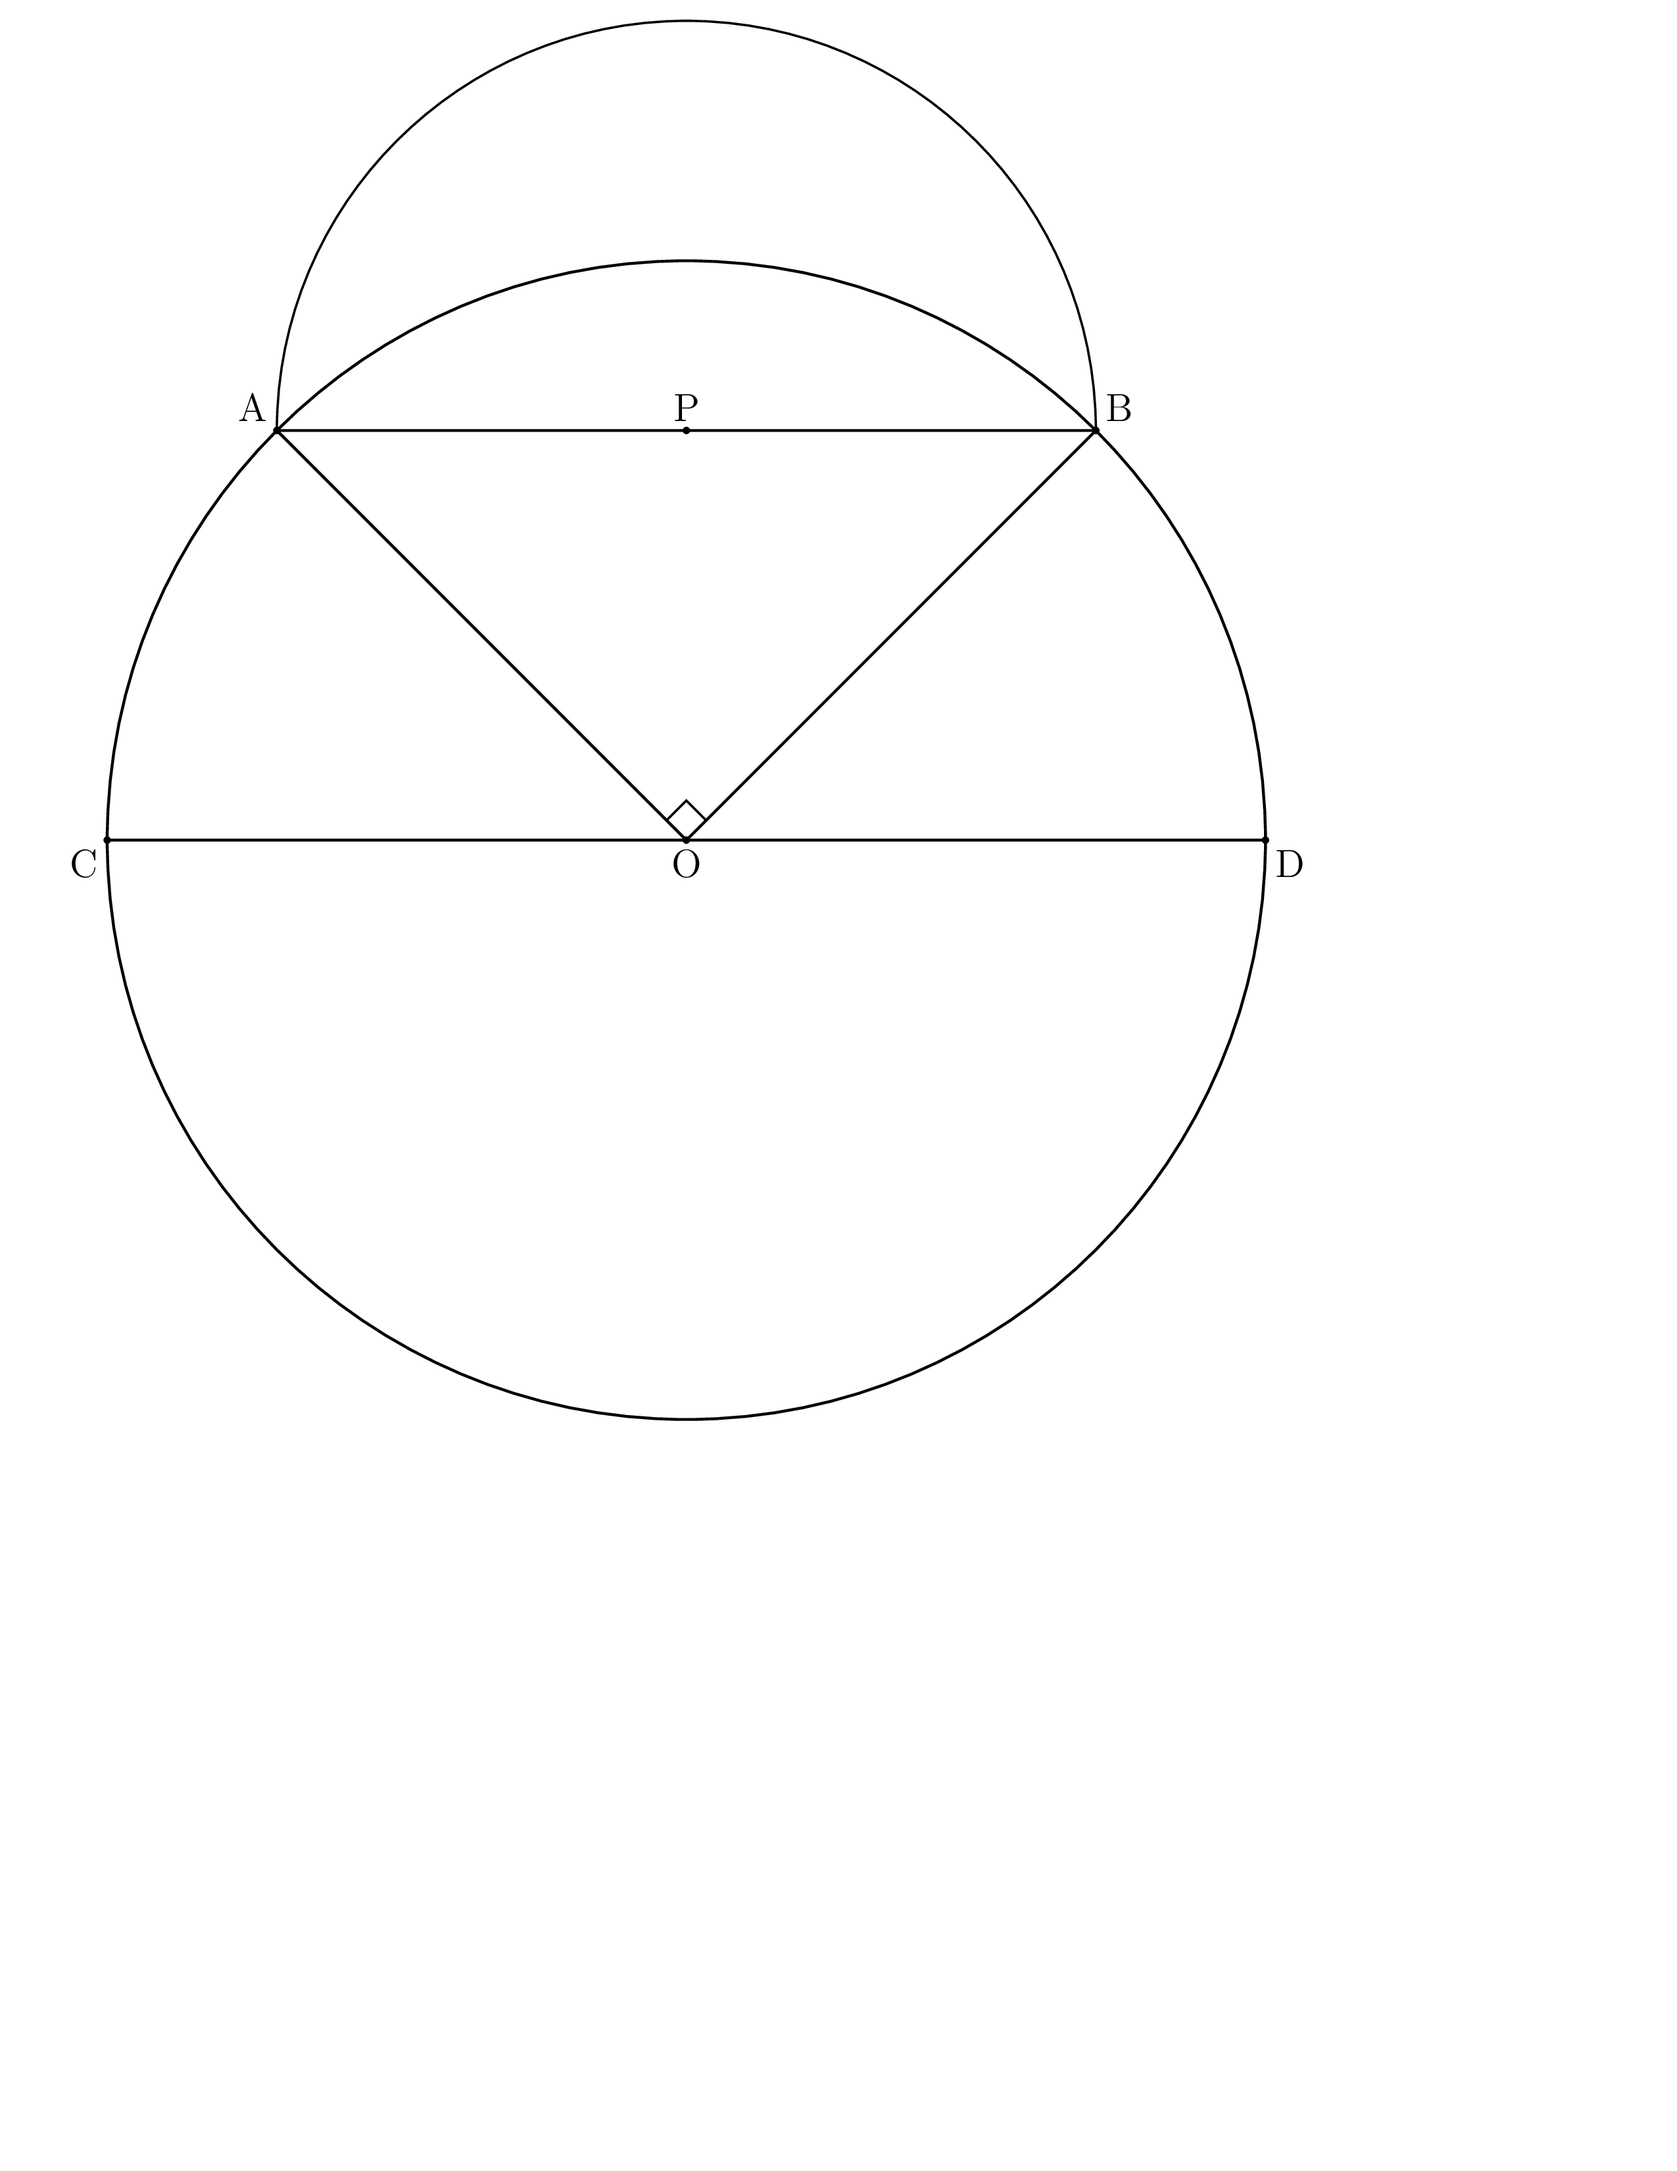
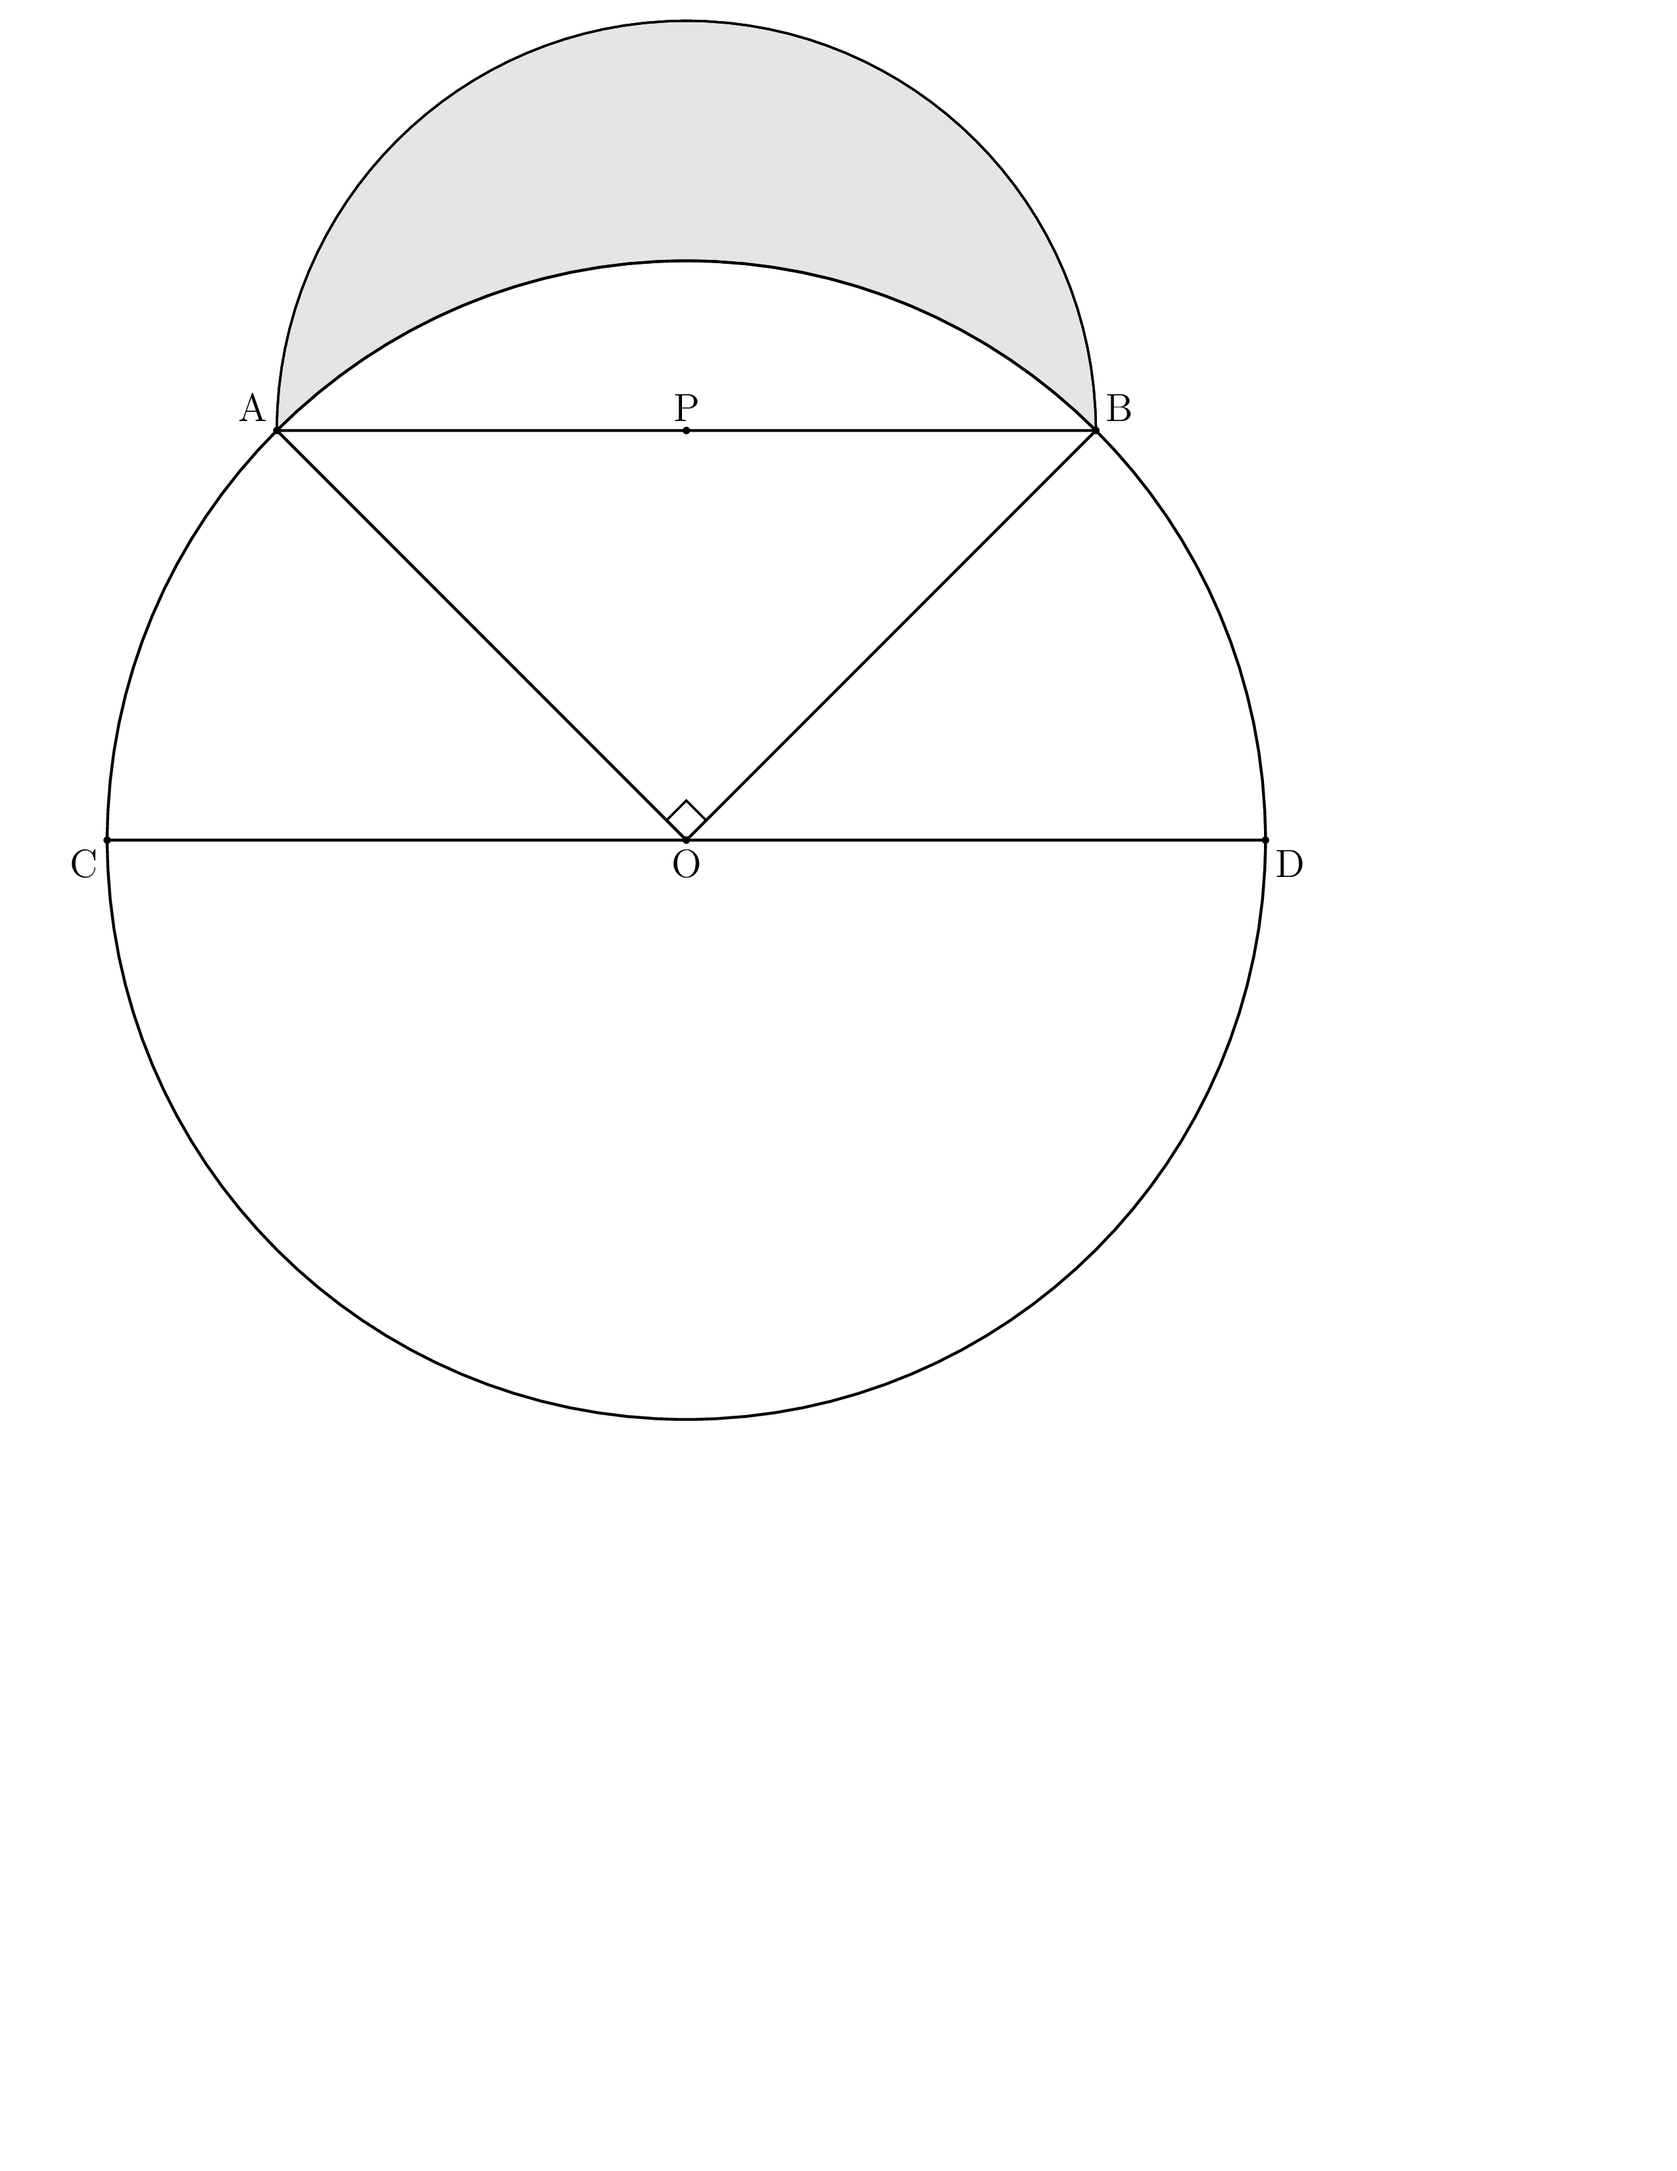
added shading to prompting and more testing ~214 lines

Changed region(s): [[0.1549, 0.0, 0.6506, 0.1873]]

diff --git a/AI-Ed-clean/Circuit-Sketchpad/interactive_sketchpad/tikzdraw.tex b/AI-Ed-clean/Circuit-Sketchpad/interactive_sketchpad/tikzdraw.tex
@@ -13,31 +13,25 @@
 \begin{document}%
 \normalsize%
 \begin{tikzpicture}%
-<<<<<<< Updated upstream
-\node[above,font=\Large] (A) at (0.0,5.196152422706632) {A};%
-\path[draw,fill=black,radius=0.04] (0.0,5.196152422706632) circle;%
-\node[left,font=\Large] (B) at (-3.0,0.0) {B};%
-\path[draw,fill=black,radius=0.04] (-3.0,0.0) circle;%
-\node[right,font=\Large] (C) at (3.0,0.0) {C};%
-\path[draw,fill=black,radius=0.04] (3.0,0.0) circle;%
-\path[line width = 1pt,draw,radius=6.0] (0.0,5.196152422706632) circle;%
-\path[line width = 1pt,draw,radius=6.0] (-3.0,0.0) circle;%
-\path[line width = 1pt,draw,radius=6.0] (3.0,0.0) circle;%
-=======
-\node[left,font=\Large] (A) at (-8.499180959106988,0.0) {A};%
-\path[draw,fill=black,radius=0.04] (-8.499180959106988,0.0) circle;%
-\node[above,font=\Large] (B) at (0.0,8.499180959106988) {B};%
-\path[draw,fill=black,radius=0.04] (0.0,8.499180959106988) circle;%
-\node[right,font=\Large] (C) at (8.499180959106988,0.0) {C};%
-\path[draw,fill=black,radius=0.04] (8.499180959106988,0.0) circle;%
-\node[below right,font=\Large] (D) at (4.249590479553494,-7.360506621947641) {D};%
-\path[draw,fill=black,radius=0.04] (4.249590479553494,-7.360506621947641) circle;%
-\path[line width = 1pt,draw] (-8.499180959106988,0.0) -- (0.0,8.499180959106988);%
-\path[line width = 1pt,draw] (0.0,8.499180959106988) -- (8.499180959106988,0.0);%
-\path[line width = 1pt,draw] (8.499180959106988,0.0) -- (4.249590479553494,-7.360506621947641);%
-\path[line width = 1pt,draw] (4.249590479553494,-7.360506621947641) -- (-8.499180959106988,0.0);%
-\path[line width = 1pt,draw,radius=8.499180959106988] (0.0,0.0) circle;%
-\path[line width = 0.8pt,draw] (-0.2545584412271571,8.244622517879831) -- (0.0,7.990064076652674) -- (0.2545584412271571,8.244622517879831);%
->>>>>>> Stashed changes
+\node[below left,font=\Large] (A) at (0.0,0.0) {A};%
+\path[draw,fill=black,radius=0.04] (0.0,0.0) circle;%
+\node[below right,font=\Large] (B) at (6.0,0.0) {B};%
+\path[draw,fill=black,radius=0.04] (6.0,0.0) circle;%
+\node[above right,font=\Large] (C) at (6.0,6.0) {C};%
+\path[draw,fill=black,radius=0.04] (6.0,6.0) circle;%
+\node[above left,font=\Large] (D) at (0.0,6.0) {D};%
+\path[draw,fill=black,radius=0.04] (0.0,6.0) circle;%
+\node[left,font=\Large] (P) at (0.8038475772933684,3.0) {P};%
+\path[draw,fill=black,radius=0.04] (0.8038475772933684,3.0) circle;%
+\node[below right,font=\Large] (Q) at (1.7573593128807146,1.7573593128807146) {Q};%
+\path[draw,fill=black,radius=0.04] (1.7573593128807146,1.7573593128807146) circle;%
+\path[line width = 1pt,draw] (0.0,0.0) -- (6.0,0.0);%
+\path[line width = 1pt,draw] (6.0,0.0) -- (6.0,6.0);%
+\path[line width = 1pt,draw] (6.0,6.0) -- (0.0,6.0);%
+\path[line width = 1pt,draw] (0.0,6.0) -- (0.0,0.0);%
+\path[line width = 1pt,draw] (0.0,0.0) -- (6.0,6.0);%
+\path[start angle  = 180.0,end angle = 150.0,thick,draw,radius=6.0] (0.0,0.0) arc;%
+\path[start angle  = 210.0,end angle = -135.0,thick,draw,radius=6.0] (0.8038475772933684,3.0) arc;%
+\path[start angle  = -90.0,end angle = -180.0,thick,draw,radius=6.0] (6.0,0.0) arc;%
 \end{tikzpicture}%
 \end{document}

diff --git a/AI-Ed-clean/Circuit-Sketchpad/interactive_sketchpad/prompt_geometry.py b/AI-Ed-clean/Circuit-Sketchpad/interactive_sketchpad/prompt_geometry.py
@@ -183,13 +183,16 @@ Shade APB BOA
 - Do not invent unknown or final-answer angle measures.
 - Use full `Circle ...` only for complete visible circles.
 - Prefer naming a circle after its center: `Circle O center O radius 1`.
-- Use `Arc ABC` for a clockwise arc from A to C centered at B. 
-- Use no spaces or dashes in arc formatting: Do NOT use `Arc A-B-C` or `Arc A B C`.
+- Use `Arc AOB` for a clockwise arc from A to B centered at O. 
+- NEVER use spaces or dashes in arc formatting: Do NOT use `Arc A-B-C`, `Arc A B C`, or `Arc AB C`.
 - *IMPORTANT*: Clockwise direction matters for angles and arcs. If the drawn angle or arc would go the wrong way, reverse the endpoint order: 
   For example, `Angle CBA=60` instead of `Angle ABC=60`, or `Arc BOA` instead of `Arc AOB`.
-- In `Shade`, two-letter tokens like `AB` are segments and three-letter tokens like `ABC` are arcs.
-- Shade paths must be connected and closed.
-- Tokens used in shade paths must be defined ahead of time
+- In `Shade`, two-letter tokens like `AB` denote line segments and three-letter tokens like `AOB` denote arcs.
+- Write `Shade` tokens in boundary traversal order. Each token must start where the previous token ends.
+- `Shade` paths must be connected, closed, and use only previously defined tokens.
+- Define every arc referenced in `Shade` before the `Shade` line, using the direction that continues the boundary traversal:
+  For example, define `Arc AOB` if `AOB` appears in the `Shade` path; use the reverse arc if required by the renderer.
+- Define only segments and arcs that are visible or required as boundaries of the shaded region.
 - Include only visible or pedagogically necessary objects.
 
 Before calling `generate_geometry`, check:
@@ -201,6 +204,11 @@ Before calling `generate_geometry`, check:
 - For later diagrams, unchanged topology stays unchanged.
 - For every angle, confirm the clockwise direction matches the marked angle in the original diagram.
 - For every arc, confirm the clockwise endpoint order matches the visible arc, not the opposite/reflex arc.
+- For every three-letter arc token used in `Shade`, confirm that there is a corresponding `Arc ...` line defined earlier, 
+  or a deliberately defined reverse arc that renders the correct boundary.
+- The shaded path is closed and connected in order: each token starts where the previous token ends, 
+  and the final token ends where the first token starts.
+- Shading uses only boundary objects of the target shaded region, not extra arcs or segments.
 - For redraws or corrections, compare the new topology against the previous correct topology.
 - Corrections change only the requested elements (e.g., angles, arcs, or auxiliary constructions).
 """

diff --git a/tikzdraw.tex b/tikzdraw.tex
@@ -33,5 +33,7 @@
 \path[line width = 1pt,draw,radius=7.455844122715711] (0.0,0.0) circle;%
 \path[line width = 0.8pt,draw] (-0.25455844122715715,0.25455844122715715) -- (0.0,0.5091168824543143) -- (0.25455844122715715,0.25455844122715715);%
 \path[start angle  = 180.0,end angle = 0.0,thick,draw,radius=5.272077938642145] (-5.272077938642145,5.272077938642145) arc;%
+\path[start angle  = 135.0,end angle = 45.0,thick,draw,radius=7.455844122715711] (-5.272077938642145,5.272077938642145) arc;%
+\filldraw[thick, fill opacity = 0.1] (-5.272077938642145, 5.272077938642145) arc[start angle = 180.0, end angle = 0.0, radius = 5.272077938642145] arc[start angle = 45.0, end angle = 135.0, radius = 7.455844122715711];%
 \end{tikzpicture}%
 \end{document}

diff --git a/AI-Ed-clean/Circuit-Sketchpad/interactive_sketchpad/test_generate_geometry.py b/AI-Ed-clean/Circuit-Sketchpad/interactive_sketchpad/test_generate_geometry.py
@@ -24,8 +24,9 @@ def main():
     Circle O center O radius sqrt(2)
 
     Arc APB
+    Arc AOB
 
-    Shade APB BA
+    Shade APB BOA
     """
 
     # Call your in-memory generator
